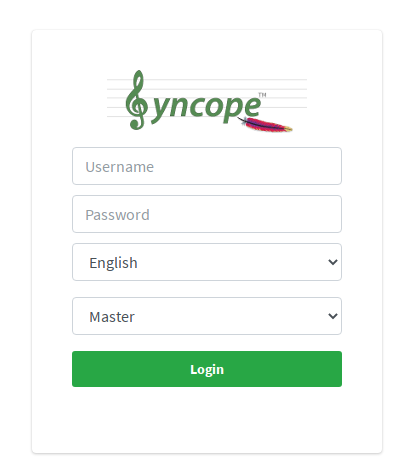
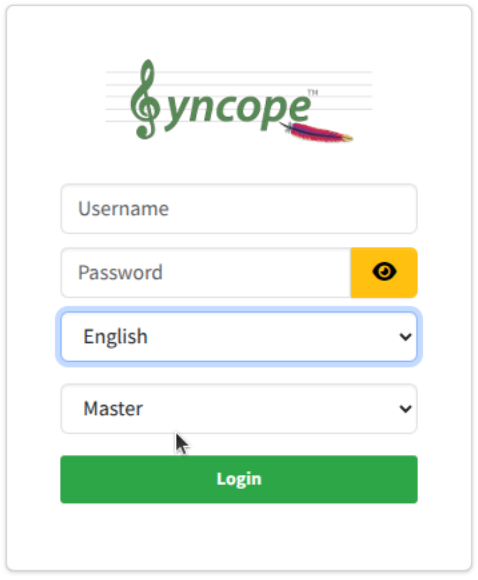
Finalize theme switcher: - Align enduser login - Fix accesskey handling - Update documentation

diff --git a/client/idrepo/enduser/src/main/resources/org/apache/syncope/client/enduser/pages/Login.html b/client/idrepo/enduser/src/main/resources/org/apache/syncope/client/enduser/pages/Login.html
@@ -42,20 +42,79 @@ under the License.
 
   <body class="login-body">
     <div id="accessibility">
-      <div id="change_contrast" class="btn-accessibility">
-        <i aria-label="Toggle high contrast colors mode" tabindex="0" accesskey="H"
-           class="fa fa-adjust">
-        </i>
+      <div id="change_theme">
+        <div class="btn-accessibility"
+             data-bs-theme-value="light">
+          <i aria-label="Switch to light theme"
+             accesskey="L"
+             class="fa fa-sun">
+          </i>
+        </div>
+
+        <div class="btn-accessibility"
+             data-bs-theme-value="dark">
+          <i aria-label="Switch to dark theme"
+             accesskey="D"
+             class="fa fa-moon">
+          </i>
+        </div>
+
+        <div class="btn-accessibility"
+             data-bs-theme-value="auto">
+          <i aria-label="Switch to automatic theme"
+             accesskey="A"
+             class="fa fa-adjust">
+          </i>
+        </div>
       </div>
+
       <div id="change_fontSize" class="btn-accessibility">
-        <i aria-label="Toggle font size increment" tabindex="1" accesskey="F"
+        <i aria-label="Toggle font size increment"
+           tabindex="1"
+           accesskey="S"
            class="fa fa-font">
         </i>
       </div>
     </div>
+
+    <script>
+      $(function () {
+        const $themeButtons = $('#change_theme [data-bs-theme-value]');
+
+        function updateThemeButton(theme) {
+          $themeButtons.hide();
+
+          const nextTheme = {
+            auto: 'light',
+            light: 'dark',
+            dark: 'auto'
+          }[theme] || 'light';
+
+          const $button = $themeButtons.filter(`[data-bs-theme-value="${nextTheme}"]`);
+
+          $button.show();
+        }
+
+        document.addEventListener('changed.lte.color-mode', function (event) {
+          updateThemeButton(event.detail.theme);
+        });
+
+        const currentTheme = localStorage.getItem('lte-theme') || 'auto';
+        updateThemeButton(currentTheme);
+      });
+    </script>
+
     <div class="container">
       <div class="login-card card card-container">
-        <img class="login-logo" src="ui-commons/img/logo-green.png"/>
+        <div class="login-logo">
+          <img class="login-logo-light"
+               src="ui-commons/img/logo-green.png"
+               alt="Apache Syncope"/>
+
+          <img class="login-logo-dark"
+               src="ui-commons/img/logo.png"
+               alt="Apache Syncope"/>
+        </div>
 
         <span wicket:id="feedback" role="alert"/>
 

diff --git a/client/idrepo/console/src/main/resources/org/apache/syncope/client/console/pages/Login.html b/client/idrepo/console/src/main/resources/org/apache/syncope/client/console/pages/Login.html
@@ -46,21 +46,24 @@ under the License.
         <div class="btn-accessibility"
              data-bs-theme-value="light">
           <i aria-label="Switch to light theme"
-             class="fa fa-adjust">
+             accesskey="L"
+             class="fa fa-sun">
           </i>
         </div>
 
         <div class="btn-accessibility"
              data-bs-theme-value="dark">
           <i aria-label="Switch to dark theme"
-             class="fa fa-sun">
+             accesskey="D"
+             class="fa fa-moon">
           </i>
         </div>
 
         <div class="btn-accessibility"
              data-bs-theme-value="auto">
           <i aria-label="Switch to automatic theme"
-             class="fa fa-moon">
+             accesskey="U"
+             class="fa fa-adjust">
           </i>
         </div>
       </div>
@@ -68,7 +71,7 @@ under the License.
       <div id="change_fontSize" class="btn-accessibility">
         <i aria-label="Toggle font size increment"
            tabindex="1"
-           accesskey="F"
+           accesskey="S"
            class="fa fa-font">
         </i>
       </div>

diff --git a/client/idrepo/common-ui/src/main/resources/META-INF/resources/ui-commons/js/accessibility.js b/client/idrepo/common-ui/src/main/resources/META-INF/resources/ui-commons/js/accessibility.js
@@ -23,32 +23,17 @@ $(function () {
         localStorage.setItem(fontSizePreference, increasedFont);
     };
 
-    switchFontSize();
-
     const toggleFontSize = () => {
         increasedFont = !increasedFont;
         switchFontSize();
     };
 
-    $('#change_fontSize').off('.acc_font').on({
-        'click.acc_font': function () {
+    switchFontSize();
+
+    $('#change_fontSize')
+        .off('.acc_font')
+        .on('click.acc_font', function () {
             toggleFontSize();
             return false;
-        },
-
-        'keydown.acc_font': function (event) {
-            if (event.key === 'Enter' || event.key === ' ') {
-                toggleFontSize();
-                event.preventDefault();
-                return false;
-            }
-        }
-    });
-
-    $('body').off('.acc_binding').on('keydown.acc_binding', function (event) {
-        if (event.altKey && event.shiftKey && event.key === 'F') {
-            toggleFontSize();
-            event.preventDefault();
-        }
-    });
+        });
 });
